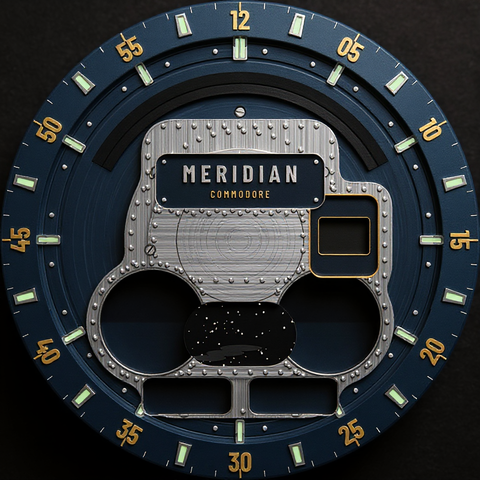
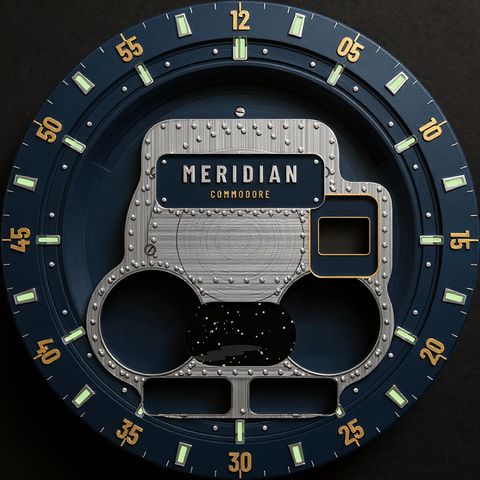
MERIDIAN PRO v4: the muted edition, with bold kept
The owner keeps v3 ("beautiful") as the bold cut and wants the concept's
quieter temperament as its own version. geometry now carries PALETTE_BOLD
and PALETTE_MUTED (MP_VARIANT selects; muted is default and matches the
concept's softer saturation - dustier navy, gentler gold, matte zones),
kontext_pass mutes its lighting language to match, and the bases are kept
per-variant in review/. 8/8 anchors held on the muted generation.

Both editions live in collection/apk: 0.3.0 bold, 0.4.0-MUTED. Same
package id - wearing one means installing it; swapping back is one adb
install of the other.

diff --git a/tools/meridian_pro/geometry.py b/tools/meridian_pro/geometry.py
@@ -21,6 +21,8 @@ two framed readout windows at the bottom.
 
 from __future__ import annotations
 
+import os
+
 CANVAS = 480
 CX = CY = CANVAS / 2
 
@@ -196,7 +198,7 @@ PLATE = {
 # ------------------------------------------------------------- palette
 # COMMODORE navy family, sampled not invented; steel from the concept.
 # Themes swap this dict wholesale in phase 7.
-PALETTE = {
+PALETTE_BOLD = {
     # RE-SAMPLED FROM THE CONCEPT SHEET 2026-07-29 after the owner's call:
     # the build had drifted dark-and-gold; the concept is brighter
     # steel-blue. Navy anchors measured off the hero dial itself.
@@ -217,3 +219,28 @@ PALETTE = {
     "zone_lim":  (226, 84, 66),
     "second":    (236, 92, 70),
 }
+
+PALETTE_MUTED = {
+    # The concept's own temperament: softer saturation, dustier navy,
+    # gentler gold, matte zones. The owner: "the concept was a bit more
+    # muted." Bold stays available as PALETTE_BOLD (MP_VARIANT=bold).
+    "dial_hi":   (42, 62, 86),
+    "dial_lo":   (18, 30, 46),
+    "bezel_hi":  (52, 72, 94),
+    "bezel_lo":  (28, 42, 60),
+    "gold":      (206, 170, 110),
+    "gold_hi":   (224, 190, 130),
+    "steel_hi":  (214, 222, 230),
+    "steel":     (158, 168, 179),
+    "steel_lo":  (84, 94, 108),
+    "well":      (16, 26, 40),
+    "lume":      (196, 220, 202),
+    "ink":       (224, 230, 237),
+    "zone_ok":   (74, 160, 112),
+    "zone_warn": (216, 168, 84),
+    "zone_lim":  (206, 92, 78),
+    "second":    (224, 96, 76),
+}
+
+VARIANT = os.environ.get("MP_VARIANT", "muted")
+PALETTE = PALETTE_BOLD if VARIANT == "bold" else PALETTE_MUTED

diff --git a/tools/meridian_pro/kontext_pass.py b/tools/meridian_pro/kontext_pass.py
@@ -35,6 +35,8 @@ BASE = "https://api.aimlapi.com/v1"
 UA = ("Mozilla/5.0 (X11; Linux x86_64) AppleWebKit/537.36 "
       "(KHTML, like Gecko) Chrome/140.0 Safari/537.36")
 
+MUTED = __import__("os").environ.get("MP_VARIANT", "muted") != "bold"
+
 PROMPT = (
     "Turn this watch dial design into an ultra photorealistic macro "
     "photograph of a real luxury military aviator wristwatch dial. Keep "
